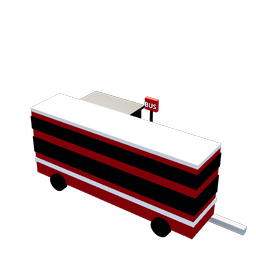
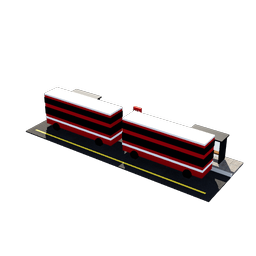
A2: shuttle bus stop is a lay-by with two shelters and two double-deckers
Claude-Session: https://claude.ai/code/session_019GL9DZKUN4T6LdW8KYydwH

Changed region(s): [[0.0938, 0.3438, 0.9688, 0.9375]]

diff --git a/GAPS.md b/GAPS.md
@@ -5,7 +5,7 @@ Every item is checked by rendering screenshots and comparing against the referen
 
 ## A. Scale and correctness bugs
 - [x] A1 Car park shows ~6 cars for ~600 fans: size it to its capacity (rows of bays, lanes, many cars, kerbs, lighting, trees in islands)
-- [ ] A2 Bus stop / train station / garage / subway capacities match what you see (buses queued, platform length)
+- [x] A2 Bus stop / train station / garage / subway capacities match what you see (buses queued, platform length)
 - [ ] A3 Facility footprints read at the right real-world scale next to stands (kiosks, toilets vs a 20 m stand)
 - [ ] A4 Museum/hotel/ticket office placement fails silently in some spots: show why, snap to valid ground
 
